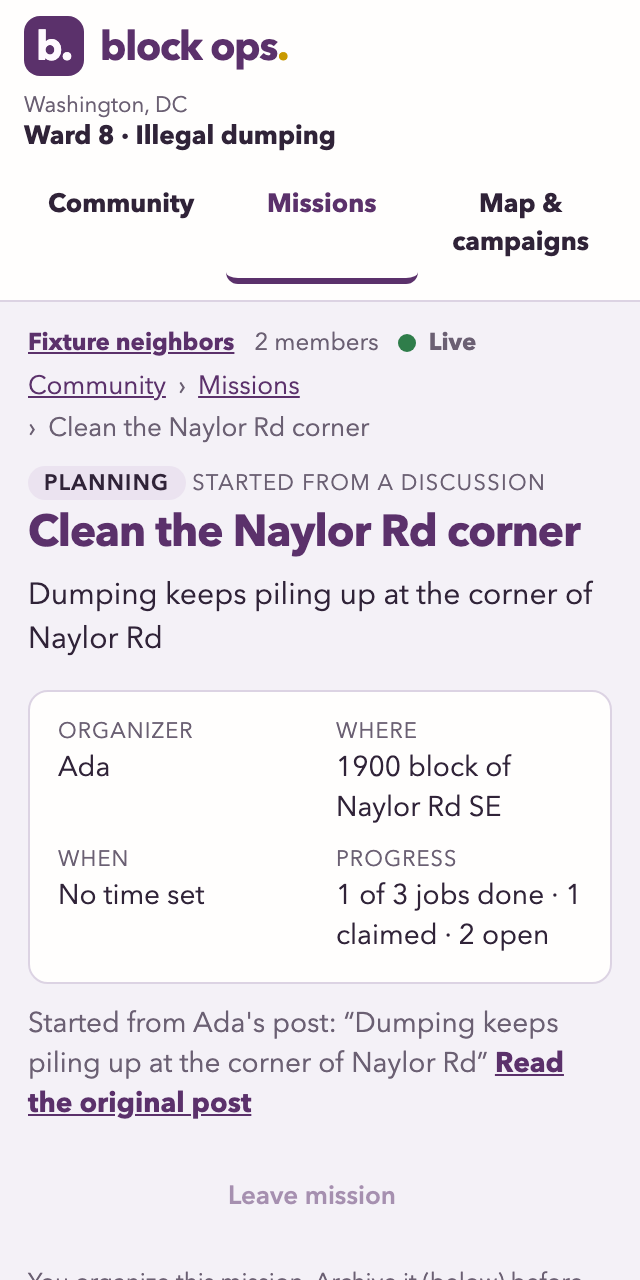
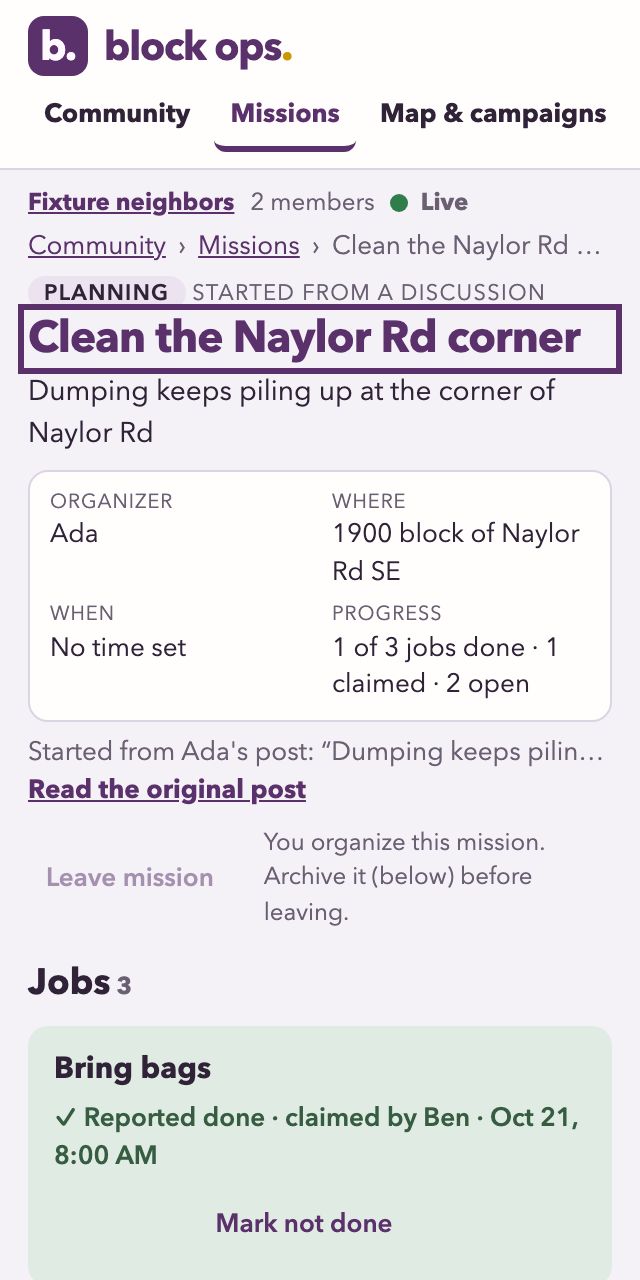
docs: B3 follow-up ledger, test evidence, two-phone deployment checklist; reconcile setup with the runbook
The database/integration checks remain UNVERIFIED (no Docker, no migration applied). The setup doc no longer recommends enabling
CAPTCHA, which would refuse every guest until the client sends a token.

diff --git a/docs/PHASE-STATUS.md b/docs/PHASE-STATUS.md
@@ -4,7 +4,7 @@ This is the canonical phase/work-order ledger. The user selected Sonnet 5.5 in C
 
 **Repository status:** R1–R3 are pushed to the public `https://github.com/mshaaf/bcc-hackathon` (`origin/main`) at the user's instruction. Earlier entries below saying "no push" describe that batch only. Nothing has been deployed or submitted; agents commit locally and the user pushes.
 
-**Active project:** Block Ops — Track 3, Community Development; selected October 21, 2026. **B2 is complete and verified on a local Supabase stack**: the four B1 review defects are repaired, and discussion → create/publish mission → join → claim a job → post progress/follow-up works across independent browsers. **B3 repair batch (independent B2 review findings + hosted-deployment preparation) is coded and committed locally, but its backend checks are UNVERIFIED**: Docker was not running and assistants may not start it (see "Standing rule" below), so the new migration has not been applied and the new/old real-backend suites have not been run since. **Next:** run the unverified checks when the user starts the local stack, then the authorized hosted project and real-phone proof, then R5 release. S1.1 is complete at `9f09667`. No hosted Supabase project, public URL or real phone has been used.
+**Active project:** Block Ops — Track 3, Community Development; selected October 21, 2026. **B2 is complete and verified on a local Supabase stack**: the four B1 review defects are repaired, and discussion → create/publish mission → join → claim a job → post progress/follow-up works across independent browsers. **B3 repair batch (independent B2 review findings + hosted-deployment preparation) and its follow-up (independent B3 review findings + mobile compaction) are coded and committed locally, but their backend checks are UNVERIFIED**: Docker was not running and assistants may not start it (see "Standing rule" below), so the new migration has not been applied and the new/old real-backend suites have not been run since. **Next:** run the unverified checks when the user starts the local stack, then the authorized hosted project and real-phone proof, then R5 release. S1.1 is complete at `9f09667`. No hosted Supabase project, public URL or real phone has been used.
 
 **Standing rule (user instruction, B3 batch): assistants must not open, start or restart Docker Desktop or any container.** Use only services that are already running. If a backend check cannot run, continue other independent work and record that check as **unverified**; never report a skipped or unrun check as passed. **Executor:** Sonnet 5.5 in the user's Claude session. Read [HANDOFF.md](HANDOFF.md) before continuing.
 
@@ -22,8 +22,8 @@ The map/local-campaign revision R1–R4 is implemented, and the shared community
 | S3.1 | Discussion-origin and reviewed-import mission creation | Complete (local Supabase) |
 | S3.2 | Atomic mission joining/claiming/leaving | Complete (local Supabase) |
 | S3.3 | Mission UI, links and shared export | Complete (local browsers; no real phone) |
-| S4.1 | Access/recovery/accessible interaction | In progress (B2-review repairs and interface fixes coded; migration and real-backend checks unverified) |
-| S4.2 | Deployment prep and authorized real-phone proof | In progress (config, preflight and runbook ready; hosted project and real phone not started) |
+| S4.1 | Access/recovery/accessible interaction | In progress (B2- and B3-review repairs and interface fixes coded; migration and real-backend checks unverified) |
+| S4.2 | Deployment prep and authorized real-phone proof | In progress (config, preflight, runbook and two-phone checklist ready; hosted project and real phone not started) |
 
 Phase rows summarize their child orders. **B1 groups S1.2–S2.2** into one outcome, B2 groups S3.1–S3.3, B3 groups S4.1–S4.2. The user now prefers substantial batches; continue within the authorized batch rather than handing back after every order. S1.1/S1.2 remain complete. S1.3/S2.1/S2.2 were reopened for the confirmed B1 repairs, which B2 fixed (evidence in the B2 entry below).
 
@@ -77,6 +77,26 @@ Change the status row and next phase. Add a short entry below with:
 - Local commit if available; do not write a guessed hash.
 
 ## Batch history
+
+### 2026-10-21 — B3 follow-up: independent B3 review findings, mobile mission screen, deployment checklist (S4)
+
+**Constraint:** Docker/containers not opened, started or restarted; no migration applied; `127.0.0.1:54321` refused connections again. Review: [B3-REVIEW](B3-REVIEW.md).
+
+**Fixed (code, committed locally):**
+1. *Departed participant offered "Mark not done".* `taskControls` offers a claimant's actions only while they are a current mission member; the organizer keeps access; nothing on archived missions. The backend rejection (`not_mission_member`) remains the real protection.
+2. *Deploy probe overclaimed.* It now says it reached the project and found the default community, that this does **not** show the mission migrations or the B3 repairs are applied, and names `supabase migration list --linked` as the migration check. The setup doc, which still recommended turning CAPTCHA on, is reconciled with the runbook (CAPTCHA would currently refuse every guest).
+3. *Mobile mission screen.* Jobs now follow the header and the join/leave row; Download and Share moved below the jobs (all screen sizes); on phones the scope label is hidden in the community section, header/nav/crumb/facts spacing is tighter, the breadcrumb stays on one line, the source-post link is one clipped line plus the link, and the organizer's "archive before leaving" note sits beside its button. Text sizes for reading and tapping are unchanged, the plum/sunflower identity is unchanged, tab order matches the visual order. On the organizer's mission with a source post, the Jobs heading moved from about 737 px to **411 px at 390x844** and sits at **479 px at 320x640**; the first job's title is on the first screen at both sizes.
+4. *Deployment checklist.* [DEPLOYMENT](DEPLOYMENT.md) now lists what needs the user, the local database checks, the hosted-project checks (migration list, probe, dashboard settings, health check) and a seven-step two-phone test (QR join, simultaneous claim, remote update, leave/finish/reopen, reload, export, venue Wi-Fi).
+
+**Evidence (this machine):**
+- `node --test` with no backend flags: **163 tests, 132 pass, 0 fail, 31 skipped** (the two real-backend files; skips prove nothing).
+- New unit regressions pass: `taskControls` cases and the probe wording/one-request test. Negative controls: restoring the old claimant rule fails the unit regression and the interface check; the old probe message fails the wording assertions.
+- `node scripts/ui-fixture-check.mjs`: **34/34** with the SDK replaced by an in-page fake (**interface only, not backend proof**). New checks: a participant who finished a job and left keeps the attribution and has no undo button; a current participant can still undo; the first job is readable on the first screen at 390x844 and 320x640; the earlier 30 (focus, drafts, announcements, 390/320 layout) still pass. Results and screenshots: `docs/ui-review/b3-run/`.
+- `node scripts/browser-check.mjs` (map and campaigns, separate server, backend down): **74/75 at 1440** and **63/65 at 390**. Failures: the console-error check (the page asks the stopped local backend: `ERR_CONNECTION_REFUSED`) and, at 390, a live-data flow (boundary failure) that also fails intermittently on pre-change code. The earlier 75/75 and 65/65 were not reproduced; those two flows depend on live city data and timing.
+
+**UNVERIFIED (unchanged, could not run without Docker):** applying the `20261022100000` migration; the four new integration tests and the existing 27 against the replaced functions; `mission-browser-check.mjs` (68) and `community-browser-check.mjs` (51) against the new layout and ordering (they select by data attributes and ids, and the "organizer cannot leave" check still finds its disabled control and "Archive it" text in `.mission-actions`); two-browser behavior after the reorder.
+
+**Remaining before S4 can close:** the local database checks, then the hosted project and the two-phone test in [DEPLOYMENT](DEPLOYMENT.md), plus an anonymous-sign-in abuse decision. Not proven: real phones, cellular, venue networks, screen readers, Safari/Firefox, pagination, add-job idempotency.
 
 ### 2026-10-21 — B3 repair batch: independent B2 review findings and hosted-deployment preparation (S4)
 

diff --git a/docs/DEPLOYMENT.md b/docs/DEPLOYMENT.md
@@ -24,11 +24,11 @@ Never set `COMMUNITY_SUPABASE_SECRET_KEY` on the host; only the integration test
 
 `GET /healthz` answers `{"ok":true}` without calling Supabase or the city, for a host's health check. When a proxy sends `X-Forwarded-Proto: https` the app adds `Strict-Transport-Security`. The CSP already limits browser connections to the app itself plus the configured Supabase origin (`https` and `wss`) and the DC tile host; the page loads no third-party script or font.
 
-**Preflight** (reads the environment, never prints a key):
+**Preflight** (reads the environment, never prints a key). The probe does **not** prove that every migration is applied (it only calls the first migration's `community_preview`); that is checked separately with `supabase migration list --linked` in the acceptance list below.
 
 ```sh
 node --env-file=.env scripts/check-deploy-config.mjs            # checks the settings and lists the migrations to apply
-node --env-file=.env scripts/check-deploy-config.mjs --probe    # also makes one read-only call to confirm migrations + default community exist
+node --env-file=.env scripts/check-deploy-config.mjs --probe    # also makes one read-only call: the project is reachable and the default community exists
 ```
 
 ## Steps, when authorized
@@ -42,16 +42,36 @@ node --env-file=.env scripts/check-deploy-config.mjs --probe    # also makes one
 7. **Host the app.** Create the service from this repository with start command `node server.mjs` and no build step; set the variables above in the host's dashboard (not in a file). Set `HOST=0.0.0.0`, point its health check at `/healthz`, and serve it over HTTPS (the QR code and share link are built from the address people actually open, so a public HTTPS address makes them real).
 8. **Verify** (see below), and only then describe anything as publicly working.
 
-## Acceptance for "hosted works" (none of this has been done)
+## What still needs you (nothing below has been done)
 
-Run in order and record the results in the ledger; a skipped item stays open.
+| Needed | Why an assistant cannot do it |
+|---|---|
+| Authorize and create the hosted Supabase project (plan, region) | Provisioning; possible cost; needs your account. |
+| Authorize and create the host service and its HTTPS address | Provisioning and public exposure. |
+| Start the local stack (Docker) when you want the database checks run | Assistants must not start Docker. Until then every database/integration check is **unverified**. |
+| Two phones, one on **cellular** (Wi-Fi off), and a second person or device | Real-device proof cannot be simulated. |
+| Decide on anonymous-sign-in abuse protection (see below) | A feature decision: CAPTCHA needs a client change. |
 
-- `check-deploy-config.mjs --probe` is clean against the hosted project.
-- A phone on **cellular** (not the developer's Wi-Fi) opens the public address, joins, reads, posts.
-- A second phone scans the mission QR code from the first phone's screen, joins the mission and claims a job; the first phone sees it without reloading (note the delay).
-- Two phones claim the same job at once: exactly one wins, the other sees a clear message.
-- The integration suites run against the hosted project **only with a disposable test project**; they create and delete throwaway communities and users with the service key. Do not run them against the demo project's real data.
-- Venue network: repeat on the venue's Wi-Fi if it will be used (anonymous sign-in limits are per IP, and a venue is one IP).
+## Acceptance checklist for "hosted works" (record each result in the ledger; an unrun item stays open)
+
+**A. Local database checks first (needs the local stack started by you).** `npx supabase@2.121.0 migration up` (never `db reset`); `node --test`; both integration files with `RUN_COMMUNITY_INTEGRATION=1`; `scripts/mission-browser-check.mjs`; `scripts/community-browser-check.mjs`. These cover the B3 migration (`20261022100000`) that has never been applied.
+
+**B. Hosted project.**
+1. `npx supabase@2.121.0 migration list --linked` shows **every** file in `supabase/migrations/` as applied (this is the migration check; it needs `supabase login`/`link` but no Docker).
+2. `node --env-file=.env scripts/check-deploy-config.mjs --probe` has no errors. It proves only that the project is reachable and the default community exists, not that migrations are applied (step 1 does that).
+3. The hosted dashboard shows anonymous sign-ins enabled, a real per-IP limit, and the Realtime publication with `posts`, `missions`, `mission_tasks`, `communities` and not `community_members`.
+4. The host's `/healthz` answers and the public address is HTTPS.
+
+**C. Two-phone test (A = phone on cellular, B = a second phone).**
+1. A opens the public address, joins with a name, reads the conversation, posts a message. B opens the same address, joins, sees A's post.
+2. A starts a mission from that post with two jobs. B opens it from the **QR code on A's screen** (or the share link), joins the mission.
+3. A and B both tap **Claim this job** on the same job at the same moment. Exactly one holds it; the other sees "Someone else claimed this job first" and the list shows the winner.
+4. B claims the other job, marks it done, posts a progress update. A sees all of it without reloading. Record the delay.
+5. B leaves the mission: B's unfinished jobs return to unclaimed; B's finished job keeps B's name and offers B no undo; A (organizer) can still reopen it, and it comes back unclaimed.
+6. Both reload and rejoin the page: the same plan, winner and posts are there. A downloads the plan; it matches the screen.
+7. Repeat on the venue's Wi-Fi if it will be used (anonymous sign-in limits are per IP and a venue is one IP).
+
+Do not run the integration suites against a project holding real data: they create and delete throwaway communities and users with the service key. Use a disposable test project for them.
 
 ## Open risk: anonymous sign-ins
 

diff --git a/docs/CONTEXT-CHECKPOINT.md b/docs/CONTEXT-CHECKPOINT.md
@@ -26,7 +26,7 @@ The latest clarification: **make it an application; a web app is sufficient for 
 | S1.1 | Filing-date wording repair complete at `9f09667`; original thresholds/counts retained. |
 | B1 | Local Supabase Auth/Postgres/Realtime, shared membership, posts/replies, own-post editing, moderator hiding, live updates and retry/reconnect handling. Its four review defects were fixed in B2. |
 | B2 / S3 | **Built and verified locally**: shared missions from a discussion or a reviewed local campaign, authenticated claims with one winner, progress/follow-up posts, current-state export, and the four B1 repairs. 27/27 backend integration, 68/68 mission browser checks. See the ledger. |
-| B3 repair batch (S4, partly) | Independent B2 review findings repaired in code (malformed evidence, reopened jobs, completion label, Add job drafts, announcements/focus, error clearing, source-post link) plus hosted-deployment preparation ([DEPLOYMENT](DEPLOYMENT.md)). **Committed locally; the migration and all real-backend checks are UNVERIFIED** (Docker was off and must not be started by an assistant). |
+| B3 repair batch + follow-up (S4, partly) | Independent B2 and B3 review findings repaired in code (the follow-up: departed participant's undo button, deploy-probe wording, jobs-first mobile layout, two-phone checklist). B2 items (malformed evidence, reopened jobs, completion label, Add job drafts, announcements/focus, error clearing, source-post link) plus hosted-deployment preparation ([DEPLOYMENT](DEPLOYMENT.md)). **Committed locally; the migration and all real-backend checks are UNVERIFIED** (Docker was off and must not be started by an assistant). |
 | Still to do | Run the unverified checks when the user starts the stack; hosted project and real phones only when authorized; then R5 pitch/release/rehearsal. |
 
 B1 uses **real local Supabase via CLI/Docker**, not a mock. SDK 2.118.0 is vendored; CLI 2.121.0 and setup are documented in [COMMUNITY-SETUP](COMMUNITY-SETUP.md). No hosted project exists. Guest accounts are not verified residents; clearing site data/changing device loses that guest identity. Counts are accounts, not unique people.
@@ -36,7 +36,10 @@ Local map campaigns still use guarded localStorage. Typed legacy owner names are
 ## Independent review history
 
 - **B1 review** at `f36867b` found four defects (late send erasing newer drafts, membership DELETE metadata reaching outsiders, old-operation replay after leaving, a disconnected composer label). B2 fixed them with regressions; see [B1-REVIEW](B1-REVIEW.md).
-- **B2 review** at `f03cd46` ([B2-REVIEW](B2-REVIEW.md)) confirmed the web app and mission loop (143 unit tests, 27/27 backend on that run) and found four more: a malformed imported evidence record that broke community loading for everyone, a finished job that could be reopened into an assignment to a departed member, a "reported by <claimant>" label for organizer-marked jobs, and Add job erasing newer drafts. The B3 repair batch fixed all four in code plus three smaller app/accessibility items. **Backend-dependent evidence for those repairs is unverified**, because the local stack was not running and an assistant must not start it. Unit tests, an interface-only fake-backend browser check (30/30) and a syntax-only parse of the migration pass; read the B3 entry in [PHASE-STATUS](PHASE-STATUS.md) for exact counts and what remains unrun.
+- **B2 review** at `f03cd46` ([B2-REVIEW](B2-REVIEW.md)) confirmed the web app and mission loop (143 unit tests, 27/27 backend on that run) and found four more: a malformed imported evidence record that broke community loading for everyone, a finished job that could be reopened into an assignment to a departed member, a "reported by <claimant>" label for organizer-marked jobs, and Add job erasing newer drafts. The B3 repair batch fixed all four in code plus three smaller app/accessibility items.
+- **B3 review** at `f5fbfaa` ([B3-REVIEW](B3-REVIEW.md)) found two small gaps, both fixed in code in a follow-up: a departed participant was offered "Mark not done" (now `taskControls`), and the deploy probe claimed migrations were verified (now it says what it checked and points to `migration list --linked`). The same follow-up compacted the phone mission layout (jobs first) and wrote the two-phone checklist in [DEPLOYMENT](DEPLOYMENT.md).
+
+**Backend-dependent evidence for those repairs is unverified**, because the local stack was not running and an assistant must not start it. Unit tests (163 discovered: 132 pass, 0 fail, 31 skipped), an interface-only fake-backend browser check (34/34) and a syntax-only parse of the migration pass; read the B3 entry in [PHASE-STATUS](PHASE-STATUS.md) for exact counts and what remains unrun.
 
 ## Next assignment
 

diff --git a/AGENTS.md b/AGENTS.md
@@ -6,7 +6,7 @@ This is a two-person BCC hackathon workspace. The user selected **Block Ops, Tra
 
 The user now explicitly wants community participation like a Facebook group/group chat: neighbors gather, agree on a plan, claim jobs and post progress. The map/evidence/brief support that social workflow. Read `docs/specs/community-missions.md` and `docs/superpowers/plans/2026-10-21-community-missions.md` first. R1–R4 have been implemented; they are a single-operator map/local-campaign baseline. B1 community discussion is built against local Supabase; shared missions and authenticated task commitments remain unbuilt.
 
-The user selected Sonnet 5.5 in Claude to implement the code and requested a refactored plan with all scoped documentation committed. Current review/documentation work does not implement social features. Start with `docs/CONTEXT-CHECKPOINT.md` and `docs/SONNET-HANDOFF.md`. S1.1 is complete at `9f09667`; B1 and B2 are complete on local Supabase (the B1 review repairs in `docs/B1-REVIEW.md` were fixed in B2). The independent B2 review (`docs/B2-REVIEW.md`) was repaired in a B3 repair batch whose migration and real-backend checks are **unverified** (Docker was off); hosted-deployment preparation is `docs/DEPLOYMENT.md`. Next: run the unverified checks when the user starts the stack, then the hosted project and real phones **only when authorized**. S1–S4 precede R5 release. Supabase is used locally via the CLI and Docker (see `docs/COMMUNITY-SETUP.md`); no hosted project exists. Preserve local campaigns and other assistants' work. `docs/DIRECTION-REVIEW.md` is retained as historical context with correction notes; the community spec is current. The other finalists remain historical alternatives.
+The user selected Sonnet 5.5 in Claude to implement the code and requested a refactored plan with all scoped documentation committed. Current review/documentation work does not implement social features. Start with `docs/CONTEXT-CHECKPOINT.md` and `docs/SONNET-HANDOFF.md`. S1.1 is complete at `9f09667`; B1 and B2 are complete on local Supabase (the B1 review repairs in `docs/B1-REVIEW.md` were fixed in B2). The independent B2 and B3 reviews (`docs/B2-REVIEW.md`, `docs/B3-REVIEW.md`) were repaired in the B3 repair batch and its follow-up, whose migration and real-backend checks are **unverified** (Docker was off); hosted-deployment preparation is `docs/DEPLOYMENT.md`. Next: run the unverified checks when the user starts the stack, then the hosted project and real phones **only when authorized**. S1–S4 precede R5 release. Supabase is used locally via the CLI and Docker (see `docs/COMMUNITY-SETUP.md`); no hosted project exists. Preserve local campaigns and other assistants' work. `docs/DIRECTION-REVIEW.md` is retained as historical context with correction notes; the community spec is current. The other finalists remain historical alternatives.
 
 **Application form factor (explicit user direction):** a web app is sufficient for this project. Build Block Ops as one cohesive application using the existing stack. Use persistent navigation, focused community/mission/map screens, clear task actions and usable phone/desktop layouts. Improve the existing UI and repair bugs in place; the form-factor direction does not require a framework rewrite or broad code refactor. Read `PRODUCT.md` and `DESIGN.md` for context. Preserve source fidelity, useful existing behavior and accessibility.
 

diff --git a/CLAUDE.md b/CLAUDE.md
@@ -12,7 +12,7 @@ Read [AGENTS.md](AGENTS.md), [context checkpoint](docs/CONTEXT-CHECKPOINT.md), [
 
 - Block Ops / Track 3 is selected. The user wants a neighborhood community: join → discuss → organize a mission → claim work → post progress.
 - R1–R4 built a real DC map and browser-local campaigns. B1 adds local Supabase identity, membership, posts/replies and live updates. Shared missions/commitments and public hosting remain unbuilt.
-- **S1.1 complete at `9f09667`; B1 and B2 complete locally** (local Supabase; evidence in `docs/PHASE-STATUS.md`). The **B3 repair batch** (independent B2 review findings + hosted-deployment preparation) is committed locally, but its migration `20261022100000` and the real-backend checks are **unverified** (Docker was off). **Next:** when the user starts the stack, `migration up` and run the integration/browser suites; then the hosted project and real phones only when authorized; then R5 release. The user wants substantial batches; do not stop after every small work order.
+- **S1.1 complete at `9f09667`; B1 and B2 complete locally** (local Supabase; evidence in `docs/PHASE-STATUS.md`). The **B3 repair batch** (independent B2 review findings + hosted-deployment preparation) and its follow-up (independent B3 review findings, jobs-first mobile layout, two-phone checklist in `docs/DEPLOYMENT.md`) are committed locally, but the migration `20261022100000` and the real-backend checks are **unverified** (Docker was off). **Next:** when the user starts the stack, `migration up` and run the integration/browser suites; then the hosted project and real phones only when authorized; then R5 release. The user wants substantial batches; do not stop after every small work order.
 - The scope was committed as `878f251`; R4 code as `15fb58c`. `git log` and `git status` supersede stale notes. The app is one web app: `#/community` (feed), `#/missions`, `#/community/<id>/mission/<id>`, `#/map`. New backend changes need a new migration applied with `supabase migration up`; never `db reset` the user's running stack.
 - Supabase runs locally via CLI/Docker; no hosted project exists. Both independent reviews' findings are repaired in code (B1's in B2, B2's in the B3 repair batch; see `docs/B1-REVIEW.md`, `docs/B2-REVIEW.md`). Do not treat fakes, localStorage or skipped tests as shared-backend proof.
 - Preserve other assistants' work, historical source evidence and existing local campaigns. DIRECTION-REVIEW is historical context with qualifications; the social spec governs the current scope.

diff --git a/docs/COMMUNITY-SETUP.md b/docs/COMMUNITY-SETUP.md
@@ -30,7 +30,7 @@ node --env-file=.env server.mjs     # open http://127.0.0.1:8000
 
 Without those two variables the Community page says the shared community is not configured; nothing is faked. The map and local campaigns work either way, under `#/map`.
 
-`supabase/config.toml` enables anonymous sign-ins and sets the local anonymous limit to 500/hour per IP for testing. **Before any public exposure** set a real per-IP limit and enable the provider's CAPTCHA/abuse protection, then test the venue's shared-IP behavior; do not just leave the testing value.
+`supabase/config.toml` is for the **local stack only**: it enables anonymous sign-ins and sets the local anonymous limit to 500/hour per IP for testing. Never `supabase config push` it to a hosted project (it would overwrite the dashboard's real limits). **Before any public exposure** set a real per-IP limit in the hosted dashboard and test the venue's shared-IP behavior. Do **not** turn CAPTCHA on for anonymous sign-ins yet: the app sends no CAPTCHA token, so every guest would be refused until a widget and `captchaToken` are added (a feature decision; see [DEPLOYMENT](DEPLOYMENT.md#open-risk-anonymous-sign-ins)).
 
 ## Guest identity (anonymous Auth)
 
@@ -108,8 +108,8 @@ node scripts/ui-fixture-check.mjs
 
 ## What is not proven
 
-- No hosted Supabase project, hosting target, public URL or real phone on another network (that is B3/S4.2).
-- Abuse protection for anonymous sign-ins on a public project (CAPTCHA, per-IP limits) is not configured or tested.
+- No hosted Supabase project, hosting target, public URL or real phone on another network. The runbook and the acceptance checklist, including the two-phone test, are in [DEPLOYMENT](DEPLOYMENT.md); none of it has been done.
+- Abuse protection for anonymous sign-ins on a public project (per-IP limit; CAPTCHA would need a client change) is not configured or tested.
 - Propagation timings are from one machine over localhost, not from a venue network.
-- Mission links and QR codes pointing at `127.0.0.1` work only on this computer. A phone on another network needs a public URL, which does not exist yet (B3).
+- Mission links and QR codes pointing at `127.0.0.1` work only on this computer. A phone on another network needs a public HTTPS address (the link and QR are built from the address the page was opened at), which does not exist yet.
 - No pagination, notifications, photo uploads, direct messages, ownership transfer or second community.

diff --git a/docs/B3-REVIEW.md b/docs/B3-REVIEW.md
@@ -1,0 +1,11 @@
+# B3 independent review — findings and resolution
+
+Review of HEAD `f5fbfaa` (the B3 repair batch `853bc64`, `2444c62`, `f5fbfaa`). Verdict: the repair direction and hosting preparation are right; two small gaps remained, and the database repair was still unverified. The original review text is kept outside the repository. Both gaps are fixed in the follow-up batch below; the database side is still **unverified** because the local stack was not running and assistants must not start it.
+
+| # | Finding | Fix | Evidence |
+|---|---|---|---|
+| 1 (P2) | A participant who finished a job and then left the mission (still in the community) was shown **Mark not done**, which the backend refuses with `not_mission_member`. | `taskControls` (`lib/mission.mjs`) decides which job actions a viewer is offered: claimant only while a current mission member, organizer always, nothing when archived. `jobRow` renders from it. The backend rejection stays the real protection. | Unit regression (departed claimant, current participant, organizer with and without membership, someone else's job, signed-out, archived); interface check (a participant finishes a job, leaves, keeps the attribution and sees no button); both fail when the old rule is restored. |
+| 2 (P2) | The deploy probe called only `community_preview` (first migration) but reported "The migrations and the default community are in place." | The probe says it reached the project and found the default community, states that it does **not** show the mission migrations or later repairs are applied, and points to `supabase migration list --linked`. The runbook's acceptance list has that command as the migration check. | Unit regression: exactly one request is made, the message says "does NOT show", never "migrations ... in place"; empty and refused answers are worded the same way. |
+| — (polish) | Mobile mission screen put header/context content before the jobs. | Jobs come right after the header and join/leave row; share/download moved below the jobs; phone spacing tightened (see the ledger). | Interface check measures the Jobs heading position at 390x844 and 320x640. |
+
+Still open: everything in [DEPLOYMENT](DEPLOYMENT.md) (applying and testing the B3 migration, hosted project, two-phone test).

diff --git a/docs/SONNET-HANDOFF.md b/docs/SONNET-HANDOFF.md
@@ -1,6 +1,6 @@
 # Block Ops — Sonnet assignments
 
-> **B2 is complete (October 21, local Supabase stack)** — results, findings and limits in [PHASE-STATUS.md](PHASE-STATUS.md) and [TEST-PLAN.md](TEST-PLAN.md). The independent [B2 review](B2-REVIEW.md) was repaired in a **B3 repair batch** (committed locally; its backend checks are unverified, see the ledger). Hosted-deployment preparation is [DEPLOYMENT.md](DEPLOYMENT.md). Everything below the next heading is the completed B2 contract, kept for reference.
+> **B2 is complete (October 21, local Supabase stack)** — results, findings and limits in [PHASE-STATUS.md](PHASE-STATUS.md) and [TEST-PLAN.md](TEST-PLAN.md). The independent [B2 review](B2-REVIEW.md) was repaired in a **B3 repair batch**, and the independent [B3 review](B3-REVIEW.md) (a departed participant's undo button, an overclaiming deploy probe) in a follow-up that also compacted the mobile mission screen; all committed locally, their database checks unverified (see the ledger). Hosted-deployment preparation is [DEPLOYMENT.md](DEPLOYMENT.md). Everything below the next heading is the completed B2 contract, kept for reference.
 >
 > ## Standing rule for every assistant: no Docker startup
 >
@@ -9,7 +9,7 @@
 > ## Next assignment (when authorized)
 >
 > 1. User starts the local stack → `migration up` (the `20261022100000` migration), both integration files, both mission/community browser checks; fix what they reveal and record real counts.
-> 2. User authorizes it → hosted project and a real phone per [DEPLOYMENT.md](DEPLOYMENT.md); anonymous-sign-in abuse decision; pagination.
+> 2. User authorizes it → hosted project and the two-phone test, step by step in [DEPLOYMENT.md](DEPLOYMENT.md#what-still-needs-you-nothing-below-has-been-done); anonymous-sign-in abuse decision (CAPTCHA needs a client change, so do not enable it yet); pagination.
 > 3. R5 pitch/rehearsal.
 
 Updated October 21, 2026. *(Historical B2 contract follows.)* **B2 (S3.1–S3.3), including the then-open B1 repairs:** build one complete web app experience using the existing implementation. The user selected Sonnet 5.5 in Claude and wants a substantial outcome, not repeated hand-backs after small work orders.

diff --git a/CHANGELOG.md b/CHANGELOG.md
@@ -1,5 +1,12 @@
 # Change log
 
+## 2026-10-21 — B3 follow-up: independent B3 review findings, mobile mission screen
+
+- Fixed: a participant who left a mission is no longer offered "Mark not done" (the organizer keeps it); the deploy probe no longer claims migrations were verified and the runbook names `supabase migration list --linked` as the migration check.
+- Mobile: jobs come right after the mission header and join/leave row (Download and Share moved below them), with tighter phone spacing; the Jobs heading went from about 737 px to 411 px at 390x844.
+- Docs: deployment runbook now has what-needs-you and a seven-step two-phone checklist; setup doc reconciled (CAPTCHA would currently refuse every guest).
+- Evidence: 163 unit tests (132 pass, 0 fail, 31 skipped); interface-only fake-backend check 34/34. **Unverified (no Docker, per instruction):** the B3 migration and all real-backend suites.
+
 ## 2026-10-21 — B3 repair batch: B2 review findings and hosted-deployment preparation
 
 - Fixed (code): a malformed imported evidence record can no longer break community loading (validated at the write boundary, coerced on read, a bad row is skipped); reopening finished work can no longer leave an unfinished job assigned to a departed member (new `set_task_done`); organizer-marked jobs read "Reported done · claimed by <name>"; Add job keeps newer text typed during a save; validation errors clear as fields are fixed; a mission links back to its source post; remote changes are announced; job actions and screen headings keep focus; pages get titles.

diff --git a/docs/TEST-PLAN.md b/docs/TEST-PLAN.md
@@ -1,5 +1,13 @@
 # Verification plan and evidence
 
+## B3 follow-up — October 21 (no Docker; backend checks UNVERIFIED)
+
+- `node --test`: 163 tests, 132 pass, 0 fail, 31 skipped (real-backend files; skips prove nothing).
+- New regressions: `taskControls` (departed claimant gets no undo; organizer keeps access) and the deploy probe wording (one read-only request; never claims all migrations verified). Both fail against the old behavior.
+- `scripts/ui-fixture-check.mjs`: 34/34 with a fake in-page backend (interface only): departed participant keeps attribution and has no undo button, a current participant can undo, the first job is on the first screen at 390x844 (Jobs heading at 411 px, was about 737) and 320x640 (479 px), plus the earlier 30 checks.
+- Map/campaign driver, backend down: 74/75 at 1440, 63/65 at 390 (console error from the refused backend; one live-data flow intermittent at 390). Not a clean reproduction of the earlier 75/75 and 65/65.
+- UNVERIFIED: migration application, all integration suites, `mission-browser-check.mjs`, `community-browser-check.mjs`. Checklist: [DEPLOYMENT](DEPLOYMENT.md#what-still-needs-you-nothing-below-has-been-done).
+
 ## B3 repair batch — October 21 (no Docker; backend checks UNVERIFIED)
 
 Docker and the local Supabase stack were not running and, by the user's instruction, were not started. Results below are split by what they can and cannot prove.
